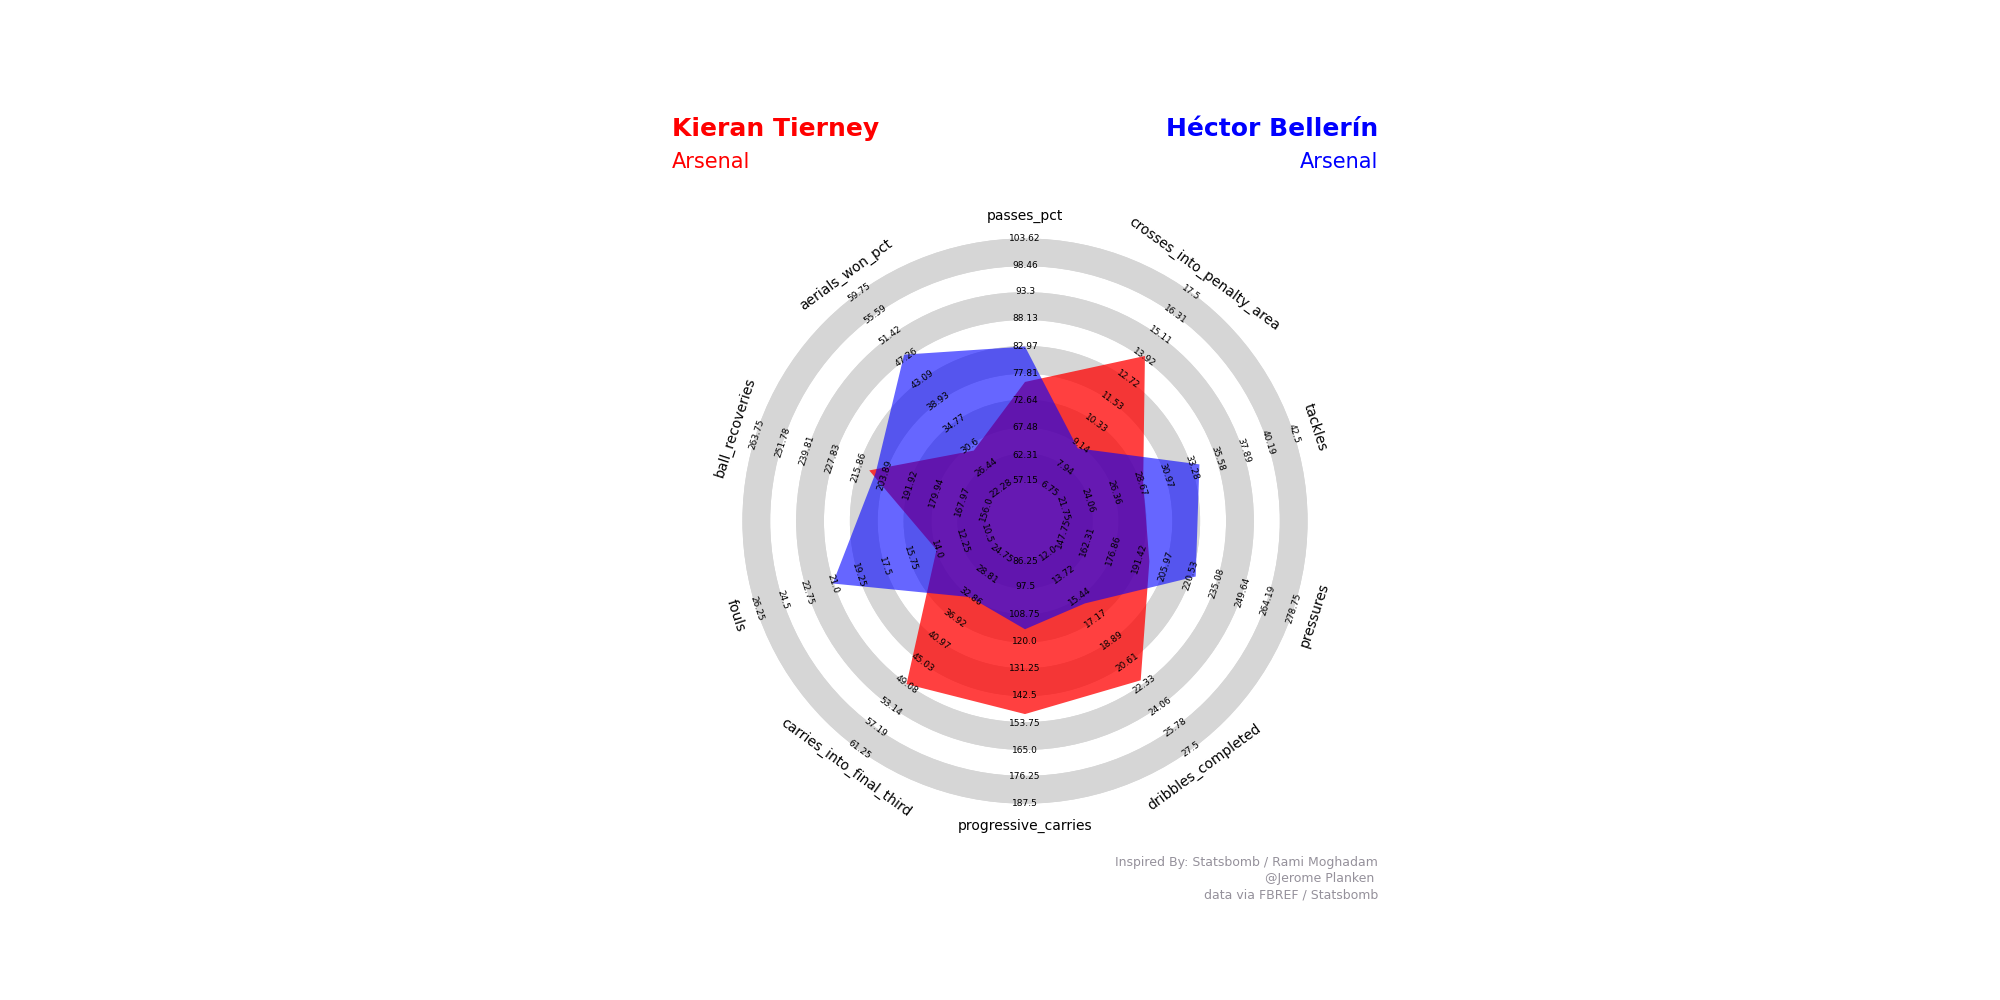
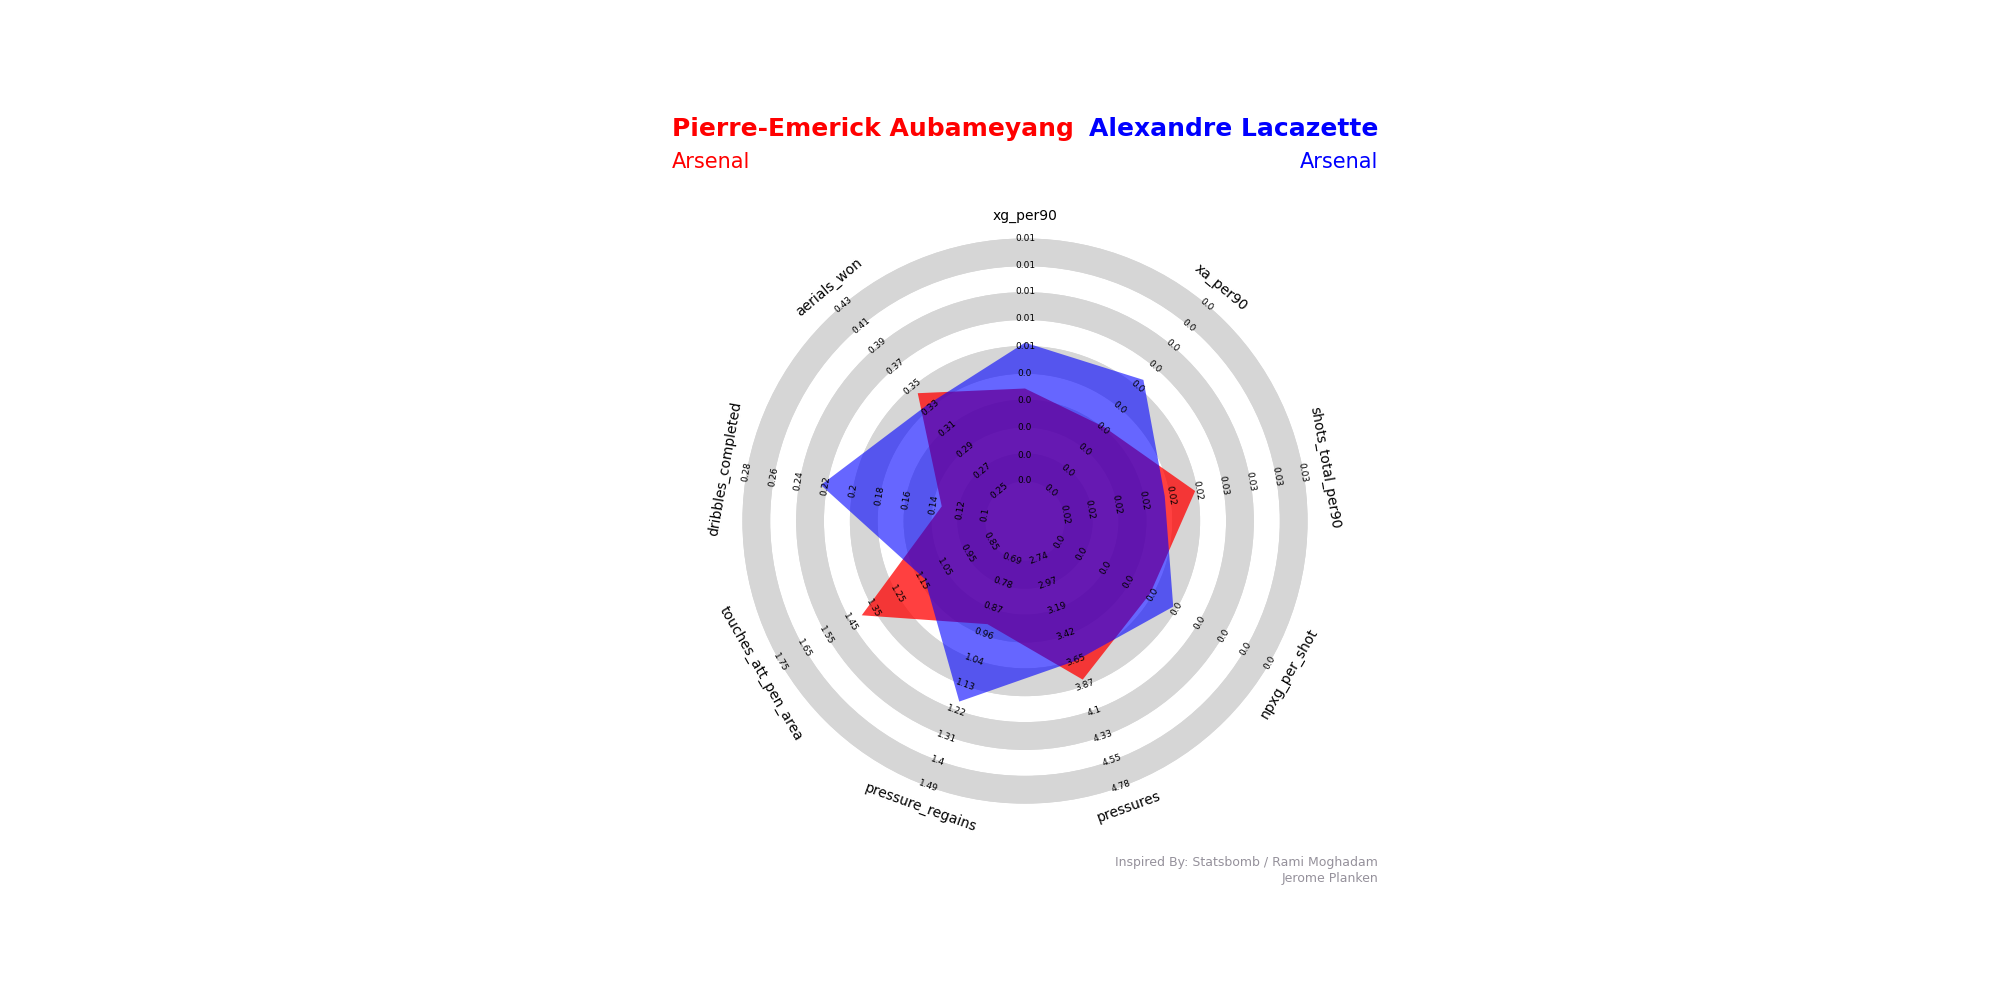
Per 90 stats har now available

diff --git a/src/Components/HomePage.js b/src/Components/HomePage.js
@@ -75,8 +75,7 @@ export default function HomePage() {
 
     xhttp.send(playerComparing);
     }
-    //const playersList = [{
-      //   player: 'Bukayo Saka'},{ player: 'Timo Werner'}]
+    
     return (
         <div>
             <div>
@@ -103,7 +102,7 @@ export default function HomePage() {
                                 <TextField {...params}  variant="outlined" fullWidth />
                                 )}
                             />
-                            Filter{" "}
+                            Position {" "}
                              <select 
                              value={compareData}
             onChange={(e)=> setCompareData(e.target.value)}
@@ -113,7 +112,8 @@ export default function HomePage() {
            <option value = "CM">Midfielder</option>
            <option value = "FB">Fullbacks</option>
            <option value = "CB">Centre backs</option>
-           <option value = "GK">Goalkeeper</option>
+         { // <option value = "GK">Goalkeeper</option>
+         }
 
            
            </select>

diff --git a/retrieveData.py b/retrieveData.py
@@ -336,24 +336,31 @@ def get_player(player1,player2, compareData):
 
     for x in params:
         a = min(df_outfield[params][x])
-        a = a - (a*.25)
+        a = (a - (a*.25))/90
         
         b = max(df_outfield[params][x])
-        b = b + (b*.25)
+        b = (b + (b*.25))/90
         
         ranges.append((a,b))
-        
+    quotients = []
+    quotients2 = []
+
+
     for x in range(len(df_outfield['player'])):
         if df_outfield['player'][x] == player1:
             a_values = df_outfield.iloc[x].values.tolist()
+
         if df_outfield['player'][x] == player2:
             b_values = df_outfield.iloc[x].values.tolist()
             
     a_values = a_values[1:]
+    for values in a_values:
+        quotients.append(values/90)
     b_values = b_values[1:]
+    for values in b_values:
+        quotients2.append(values/90)
 
-    values = [a_values,b_values]
-
+    values = [quotients,quotients2]
     #title 
 
     title = dict(
@@ -374,7 +381,7 @@ def get_player(player1,player2, compareData):
     
     # Cropped image of above dimension
     # (It will not change original image)
-    endnote = '@Jerome Planken \ndata via FBREF / Statsbomb'
+    endnote = 'Jerome Planken'
 
     radar = Radar()
 
